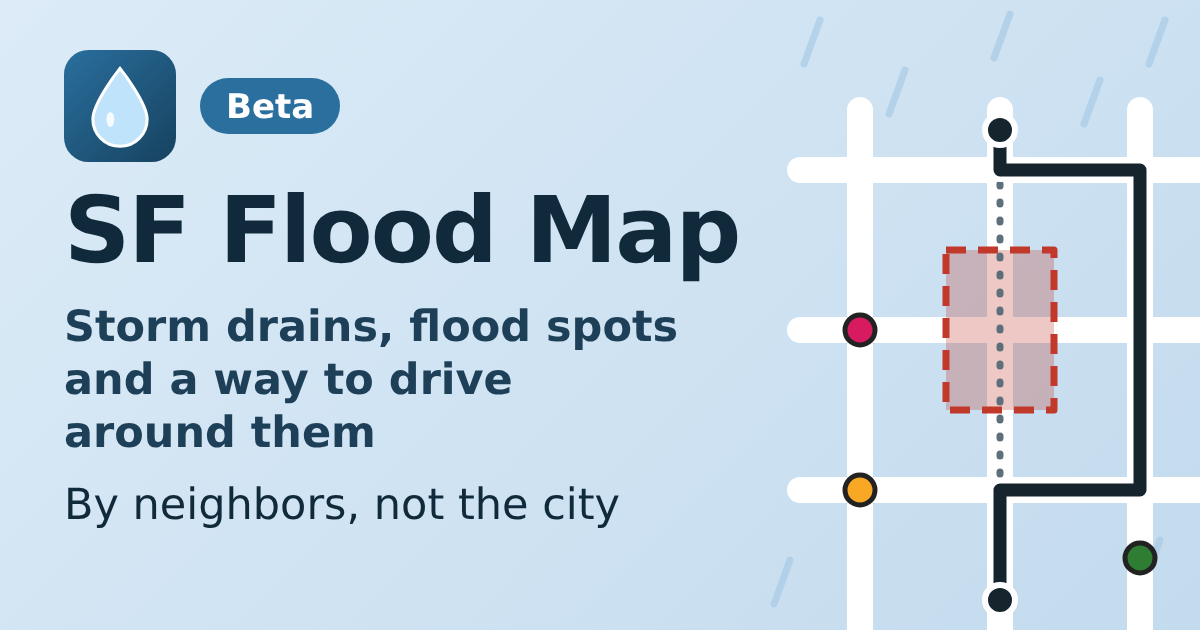
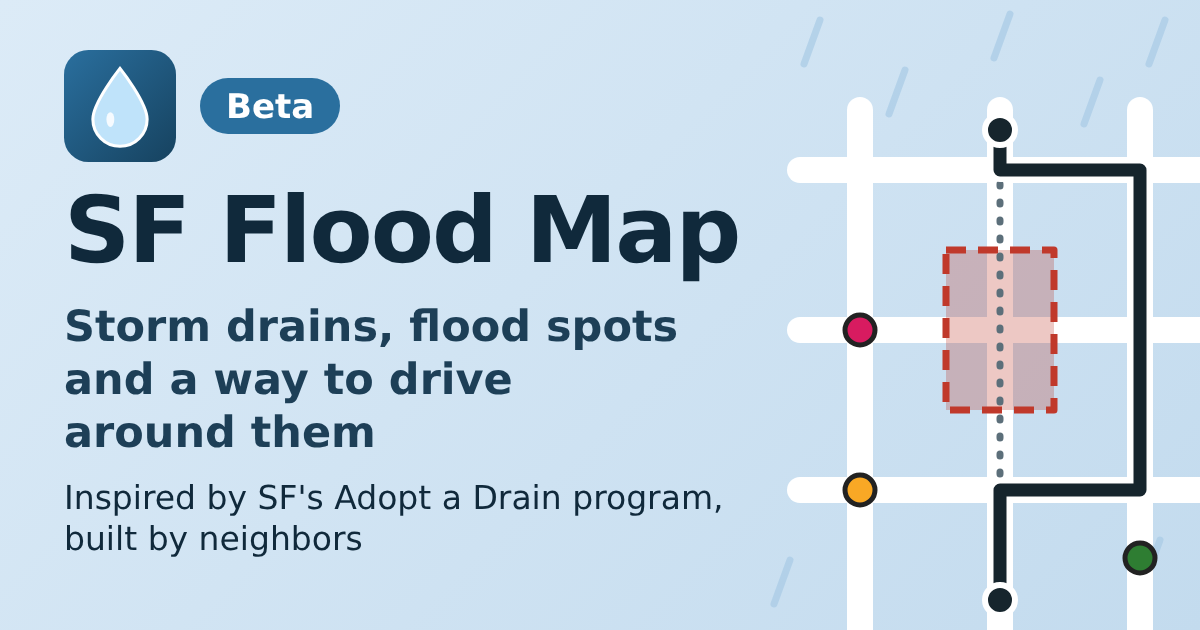
Wording: built by neighbors in support of the City; "Inspired by SF's Adopt a Drain program" (#69)
* Preview and footer: 'Inspired by SF's Adopt a Drain program, built by neighbors' replaces 'not the city'

Claude-Session: https://claude.ai/code/session_0181ZXaPa8py6TK4eHvUM1Uy

* Wording: supportive of the City; 311 list 'updates each morning'; credit the City's open data

Claude-Session: https://claude.ai/code/session_0181ZXaPa8py6TK4eHvUM1Uy

---------

Changed region(s): [[0.0308, 0.754, 0.6167, 0.8746]]

diff --git a/index.html b/index.html
@@ -4,7 +4,7 @@
 <meta charset="utf-8">
 <meta name="viewport" content="width=device-width, initial-scale=1">
 <title>My Neighborhood Map (beta)</title>
-<meta name="description" content="Trees, birds, walks and flood help for your block in San Francisco: the best time for a walk today, what neighbors saw this week, storm drains and flood reports. A beta made by a neighbor, not the city.">
+<meta name="description" content="Trees, birds, walks and flood help for your block in San Francisco: the best time for a walk today, what neighbors saw this week, storm drains and flood reports. A beta built by neighbors, inspired by SF's Adopt a Drain program. Not an official service.">
 <meta name="theme-color" content="#2f7d5b">
 <link rel="icon" href="assets/icon.svg" type="image/svg+xml">
 <link rel="icon" href="assets/icon-32.png" type="image/png" sizes="32x32">
@@ -13,7 +13,7 @@
 <meta property="og:type" content="website">
 <meta property="og:site_name" content="My Neighborhood Map">
 <meta property="og:title" content="My Neighborhood Map (beta)">
-<meta property="og:description" content="Trees, birds, walks and flood help for your block in San Francisco: the best time for a walk today, what neighbors saw this week, storm drains and flood reports. A beta made by a neighbor, not the city.">
+<meta property="og:description" content="Trees, birds, walks and flood help for your block in San Francisco: the best time for a walk today, what neighbors saw this week, storm drains and flood reports. A beta built by neighbors, inspired by SF's Adopt a Drain program. Not an official service.">
 <meta property="og:image:width" content="1200">
 <meta property="og:image:height" content="630">
 <meta property="og:image:alt" content="My Neighborhood Map: a green leaf and a raindrop over simple map lines. Trees, birds, walks and flood help for your block, San Francisco, beta.">
@@ -676,7 +676,7 @@ body.mode-nature .leaflet-bus-pane, body.mode-nature .leaflet-badge-pane, body.m
     <label for="rfPhoto">Photo (optional)<input type="file" id="rfPhoto" accept="image/*"></label>
     <label id="rfSewRow" class="chk" hidden><input type="checkbox" id="rfSewage"> Looks or smells like sewage</label>
     <p class="small" id="rfWaterNote" style="margin:0" hidden></p>
-    <p class="small" style="margin:0">Posts are anonymous. Notes and photos are checked automatically before they appear publicly; photos with faces or license plates are not shown. For danger to life call 9-1-1. This does not notify the city; report to 311 for that.</p>
+    <p class="small" style="margin:0">Posts are anonymous. Notes and photos are checked automatically before they appear publicly; photos with faces or license plates are not shown. For danger to life call 9-1-1. This post doesn't go to the city. City crews respond to 311 reports, so please report it there too.</p>
     <div class="row"><button class="act" type="submit" id="rfGo">Post</button><button class="act alt" type="button" id="rfCancel">Cancel</button></div>
     <p class="small" id="rfMsg" style="margin:0"></p>
   </form>
@@ -741,9 +741,9 @@ body.mode-nature .leaflet-bus-pane, body.mode-nature .leaflet-badge-pane, body.m
   <p class="small only-flood" id="cityLinks" style="margin:0"></p>
   <p class="credit">Made with <span role="img" aria-label="love">💚</span> by <a href="https://github.com/christinebuilds/neighborhood-map">christinebuilds</a></p>
   <p class="small" style="margin:0"><b>Free and open source. Built by a neighbor for the community.</b> Ideas, fixes and new cities are welcome — <a href="https://github.com/christinebuilds/neighborhood-map/blob/main/CONTRIBUTING.md">contribute on GitHub</a>.</p>
-  <p class="small" style="margin:0">Made by neighbors, not the city. <button type="button" class="linkish fbbtn" id="fbOpen"><span aria-hidden="true">💬</span> Report a problem or share an idea</button>. The page remembers your spot in this browser only.</p>
+  <p class="small" style="margin:0">Built by neighbors to support the City's storm work, inspired by the SFPUC's <a href="https://adoptadrain.sfwater.org/about">Adopt a Drain</a> program. <button type="button" class="linkish fbbtn" id="fbOpen"><span aria-hidden="true">💬</span> Report a problem or share an idea</button>. The page remembers your spot in this browser only.</p>
   <p class="small" style="margin:0">My Neighborhood Map. Version: <span id="ver"></span>. <a href="flood.html">About the flood map</a>.</p>
-  <p class="small" style="margin:0">Not an official service. Emergency: 9-1-1. Weather: National Weather Service and Open-Meteo. Radar: NWS via Iowa Environmental Mesonet. Sightings and photos: <a href="https://www.inaturalist.org">iNaturalist</a>, with credit to each photographer. Trees, drains, 311 and flood zone: city open data. Walking and driving directions: Valhalla on OpenStreetMap data. Address search: OpenStreetMap.</p>
+  <p class="small" style="margin:0">Not an official service. Emergency: 9-1-1. Weather: National Weather Service and Open-Meteo. Radar: NWS via Iowa Environmental Mesonet. Sightings and photos: <a href="https://www.inaturalist.org">iNaturalist</a>, with credit to each photographer. Trees, drains, 311 reports and the flood zone come from the City's open data (DataSF, SF311, San Francisco Public Works and the SFPUC), with thanks. Walking and driving directions: Valhalla on OpenStreetMap data. Address search: OpenStreetMap.</p>
   <div class="small" id="dataNotice" style="margin:0">
     <details><summary>Transit data notice (SFMTA, BART)</summary>
       <div id="dataNoticeText">
@@ -782,7 +782,7 @@ body.mode-nature .leaflet-bus-pane, body.mode-nature .leaflet-badge-pane, body.m
 // Phones: keep pop-ups inside the map (scroll inside them if long) instead of running off the screen.
 L.Popup.mergeOptions({ maxHeight: Math.max(160, Math.round(window.innerHeight * 0.38)), autoPanPadding: [8, 8], keepInView: false });
 // The time this copy of the page was built. The footer shows it, and the page checks version.txt for a newer one.
-var BUILD = "2026-11-20 22:15 PT";
+var BUILD = "2026-11-20 23:40 PT";
 (function () {
   var v = document.getElementById("ver"); if (v) v.textContent = BUILD;
   fetch("version.txt?ts=" + Date.now(), { cache: "no-store" }).then(function (r) { return r.ok ? r.text() : ""; }).then(function (t) {
@@ -1066,7 +1066,7 @@ var BUILD = "2026-11-20 22:15 PT";
           html: '<div class="b311' + (g.n >= 100 ? " big" : "") + '" style="width:' + d + "px;height:" + d + "px;background:" + (parts.length > 1 ? "conic-gradient(" + ring + ")" : parts[0][1]) + '"><span>' + g.n + "</span></div>" }) });
       var el = document.createElement("div");
       el.innerHTML = '<span class="tag now">311 reports</span><br><b>' + esc(name) + ":</b> " + esc(said.join(", ")) + " reported to 311 " + when + ". " +
-        (showClosed ? "Open and closed cases" : "Open cases only") + '; 311 reports show up about a day late.<div class="pbtns"><button type="button">Zoom in</button></div>';
+        (showClosed ? "Open and closed cases" : "Open cases only") + ". The city's 311 list updates each morning." + '<div class="pbtns"><button type="button">Zoom in</button></div>';
       el.querySelector("button").addEventListener("click", function () {
         map.closePopup();
         // one neighborhood: far enough in for its dots. Several folded together: far enough to tell them apart.
@@ -1561,7 +1561,7 @@ var BUILD = "2026-11-20 22:15 PT";
       '<span class="ldot" style="background:#00796b"></span>Teal: blocked or broken storm drain reported to 311<br>' +
       '<span class="ldot" style="background:#6d4c41"></span>Brown: sewage backup reported to 311<br>' +
       '<span class="lnum">12</span>Number: 311 reports in that neighborhood. Zoom in for each one.<br>' +
-      'Open cases only. They show up about a day late.' +
+      'Open cases only. The city\'s 311 list updates each morning.' +
       '<b>Storm drains (dark outline)</b>' +
       '<span class="ldot" style="background:#d81b60;border-color:#222"></span>Check now<br>' +
       '<span class="ldot" style="background:#f9a825;border-color:#222"></span>Check first<br>' +
@@ -2502,9 +2502,9 @@ var BUILD = "2026-11-20 22:15 PT";
       if (r.near.some(function (it) { return it[e[0]] && it.kind === "past"; })) fact("Your " + e[1] + " is in a spot that has flooded before.");
       if (r.near.some(function (it) { return it[e[0]] && it.kind === "water"; })) fact("A neighbor reported water right by your " + e[1] + " in the last day.");
     });
-    if (cm.n311) fact(cm.n311 + (cm.n311 === 1 ? " open 311 flooding report is" : " open 311 flooding reports are") + " close to this route. 311 reports show up about a day late.");
-    if (cm.sewage.length) fact(sewN(cm.sewage.length) + (cm.sewage.length === 1 ? " is" : " are") + " close to this route. 311 reports show up about a day late.");
-    else if (goneS.length && !cm.n311) fact("311 reports show up about a day late.");
+    if (cm.n311) fact(cm.n311 + (cm.n311 === 1 ? " open 311 flooding report is" : " open 311 flooding reports are") + " close to this route. The city's 311 list updates each morning.");
+    if (cm.sewage.length) fact(sewN(cm.sewage.length) + (cm.sewage.length === 1 ? " is" : " are") + " close to this route. The city's 311 list updates each morning.");
+    else if (goneS.length && !cm.n311) fact("The city's 311 list updates each morning.");
     // Said under the buttons too, not only in Details: the route still passes a flood spot (no way around was found).
     if (cm.water.length || cm.past.length) {
       var n = cm.past.length; dEl("Head").hidden = false;

diff --git a/flood.html b/flood.html
@@ -16,7 +16,7 @@
 <meta property="og:description" content="A neighbor-made map of San Francisco storm drains, flood reports, past flooding and the city&#39;s flood zone. A beta, not an official service.">
 <meta property="og:image:width" content="1200">
 <meta property="og:image:height" content="630">
-<meta property="og:image:alt" content="SF Flood Map, beta: a raindrop, and simple map lines with storm drain dots, a dashed past-flood area and a route bending around it. Storm drains, flood spots and a way to drive around them. By neighbors, not the city.">
+<meta property="og:image:alt" content="SF Flood Map, beta: a raindrop, and simple map lines with storm drain dots, a dashed past-flood area and a route bending around it. Storm drains, flood spots and a way to drive around them. Inspired by SF's Adopt a Drain program, built by neighbors.">
 <meta name="twitter:card" content="summary_large_image">
 <!-- SITE ADDRESS: the only place this page names its full web address. Link previews need it written out in full.
      If the site moves (for example to a custom domain), change the two URLs in this block. -->
@@ -39,12 +39,13 @@ a { color: #1d6a9f; }
   <h1>SF Flood Map <a class="betatag" href="./#feedback" title="Beta: tell us what you think">Beta</a></h1>
   <p class="small">Not an official service. Emergency: <a href="tel:911">9-1-1</a>. <a href="./#feedback">💬 Send feedback</a></p>
   <p>A map made by neighbors to get San Francisco blocks through heavy rain.</p>
+  <p>It builds on the City's open data and is inspired by the SFPUC's Adopt a Drain program. <a href="https://adoptadrain.sfwater.org/about">Adopt a drain near you</a>.</p>
   <p>It shows the storm drains near you and which to check first, flood reports from neighbors and from 311, places that flooded in past storms, and the city's flood zone.</p>
   <p>You can mark a drain as cleared, thank the neighbor who cleared one, and report water on your street.</p>
   <a class="big" href="./#flood">Open the flood map</a>
   <p class="small">Part of <a href="./">My Neighborhood Map</a>. Not an official service or a warning system. Emergency: 9-1-1. Report flooding to the city at 3-1-1.</p>
   <p class="small">Made with 💚 by <a href="https://github.com/christinebuilds/neighborhood-map">christinebuilds</a>. <b>Free and open source. Built by a neighbor for the community.</b> Ideas, fixes and new cities are welcome — <a href="https://github.com/christinebuilds/neighborhood-map/blob/main/CONTRIBUTING.md">contribute on GitHub</a>.</p>
-  <p class="small">Version: 2026-11-20 22:15 PT</p>
+  <p class="small">Version: 2026-11-20 23:40 PT</p>
 </main>
 <script>
 // keep ?city= when opening the map

diff --git a/walks/index.html b/walks/index.html
@@ -4,7 +4,7 @@
 <meta charset="utf-8">
 <meta name="viewport" content="width=device-width, initial-scale=1">
 <title>My Neighborhood Map (beta)</title>
-<meta name="description" content="Trees, birds, walks and flood help for your block in San Francisco: the best time for a walk today, what neighbors saw this week, storm drains and flood reports. A beta made by a neighbor, not the city.">
+<meta name="description" content="Trees, birds, walks and flood help for your block in San Francisco: the best time for a walk today, what neighbors saw this week, storm drains and flood reports. A beta built by neighbors, inspired by SF's Adopt a Drain program. Not an official service.">
 <meta name="theme-color" content="#2f7d5b">
 <link rel="icon" href="../assets/icon.svg" type="image/svg+xml">
 <link rel="icon" href="../assets/icon-32.png" type="image/png" sizes="32x32">
@@ -12,7 +12,7 @@
 <meta property="og:type" content="website">
 <meta property="og:site_name" content="My Neighborhood Map">
 <meta property="og:title" content="My Neighborhood Map (beta)">
-<meta property="og:description" content="Trees, birds, walks and flood help for your block in San Francisco: the best time for a walk today, what neighbors saw this week, storm drains and flood reports. A beta made by a neighbor, not the city.">
+<meta property="og:description" content="Trees, birds, walks and flood help for your block in San Francisco: the best time for a walk today, what neighbors saw this week, storm drains and flood reports. A beta built by neighbors, inspired by SF's Adopt a Drain program. Not an official service.">
 <meta property="og:image:width" content="1200">
 <meta property="og:image:height" content="630">
 <meta property="og:image:alt" content="My Neighborhood Map: a green leaf and a raindrop over simple map lines. Trees, birds, walks and flood help for your block, San Francisco, beta.">

diff --git a/flood/index.html b/flood/index.html
@@ -15,7 +15,7 @@
 <meta property="og:description" content="A neighbor-made map of San Francisco storm drains, flood reports, past flooding and the city&#39;s flood zone. A beta, not an official service.">
 <meta property="og:image:width" content="1200">
 <meta property="og:image:height" content="630">
-<meta property="og:image:alt" content="SF Flood Map, beta: a raindrop, and simple map lines with storm drain dots, a dashed past-flood area and a route bending around it. Storm drains, flood spots and a way to drive around them. By neighbors, not the city.">
+<meta property="og:image:alt" content="SF Flood Map, beta: a raindrop, and simple map lines with storm drain dots, a dashed past-flood area and a route bending around it. Storm drains, flood spots and a way to drive around them. Inspired by SF's Adopt a Drain program, built by neighbors.">
 <meta name="twitter:card" content="summary_large_image">
 <!-- SITE ADDRESS: the only place this page names its full web address. Link previews need it written out in full,
      and chat apps read these tags from this page, not from the map it opens.

diff --git a/docs/beta-share-message.md b/docs/beta-share-message.md
@@ -10,7 +10,7 @@ Hi neighbors! I made a little map for our part of SF: trees, birds, walks and fl
 - Plan a walk to something spotted this week
 - When it storms, check a drain or report water
 
-It's a beta made by a neighbor, not the city. For emergencies, call 911. Tap "Beta" at the top to tell me what works and what doesn't.
+It's a beta built by a neighbor, inspired by SF's Adopt a Drain program. It's not an official city service. For emergencies, call 911. Tap "Beta" at the top to tell me what works and what doesn't.
 
 https://sfcommunitymap.org/
 
